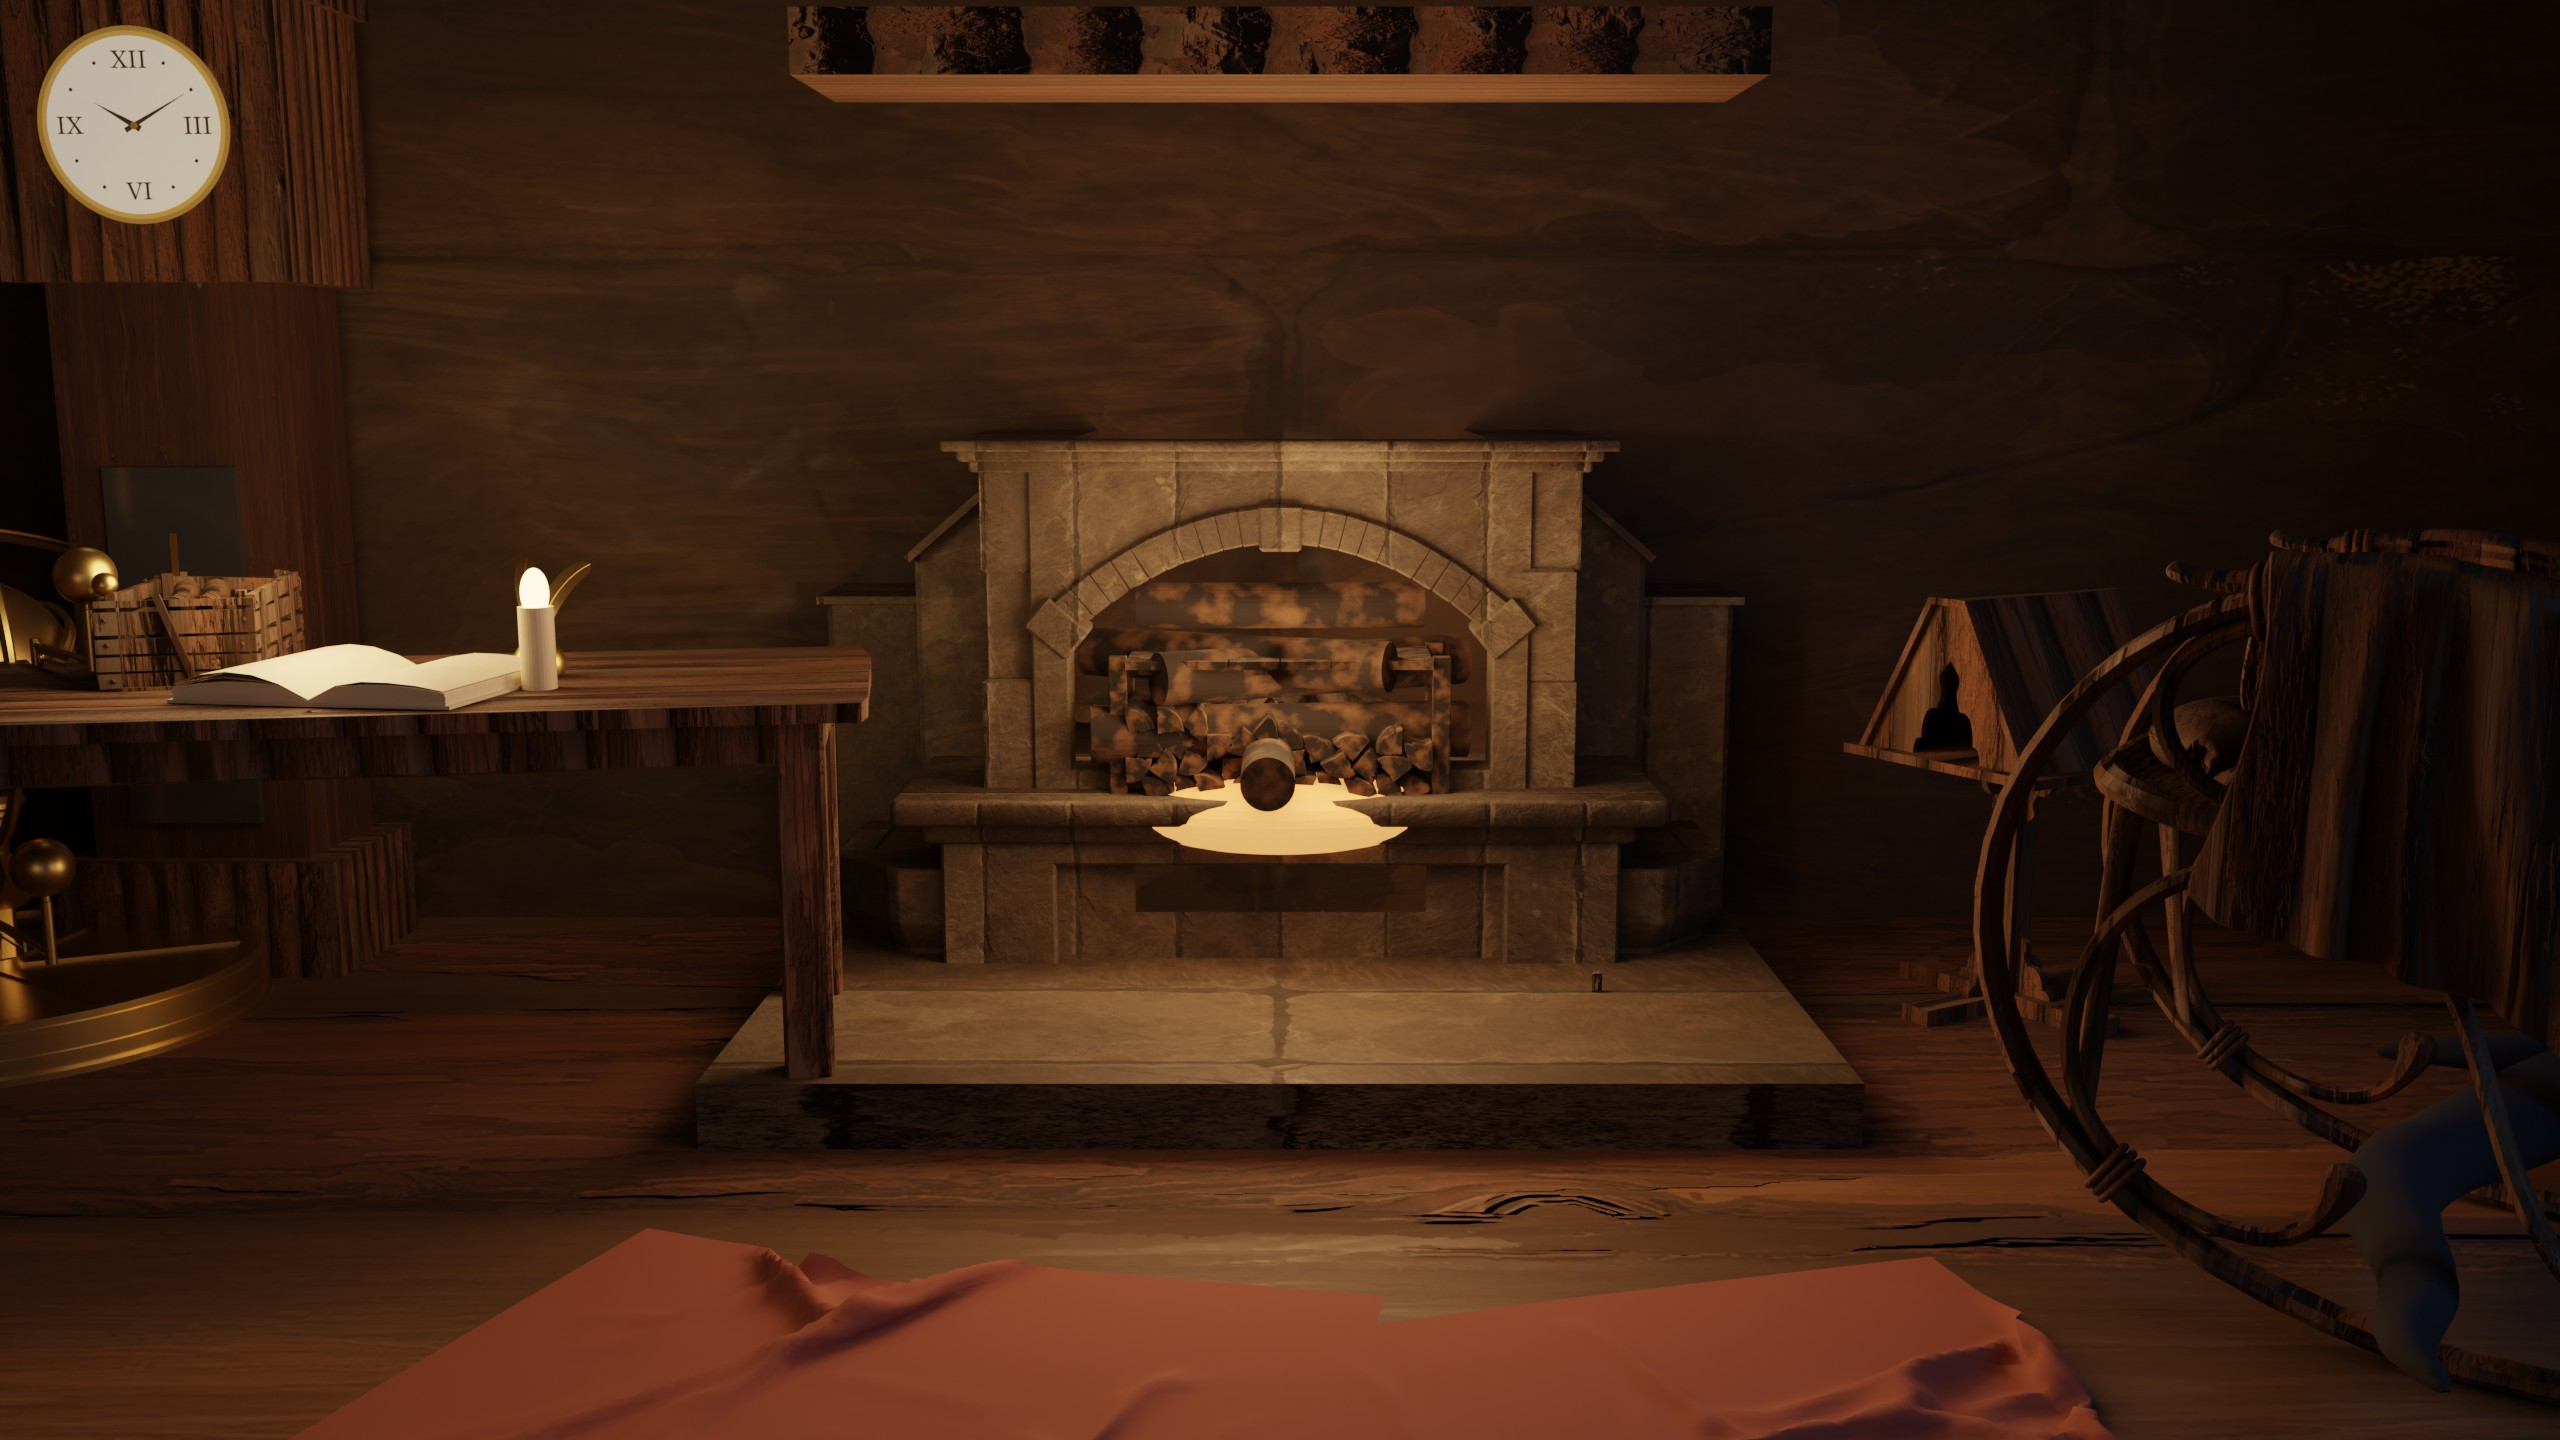
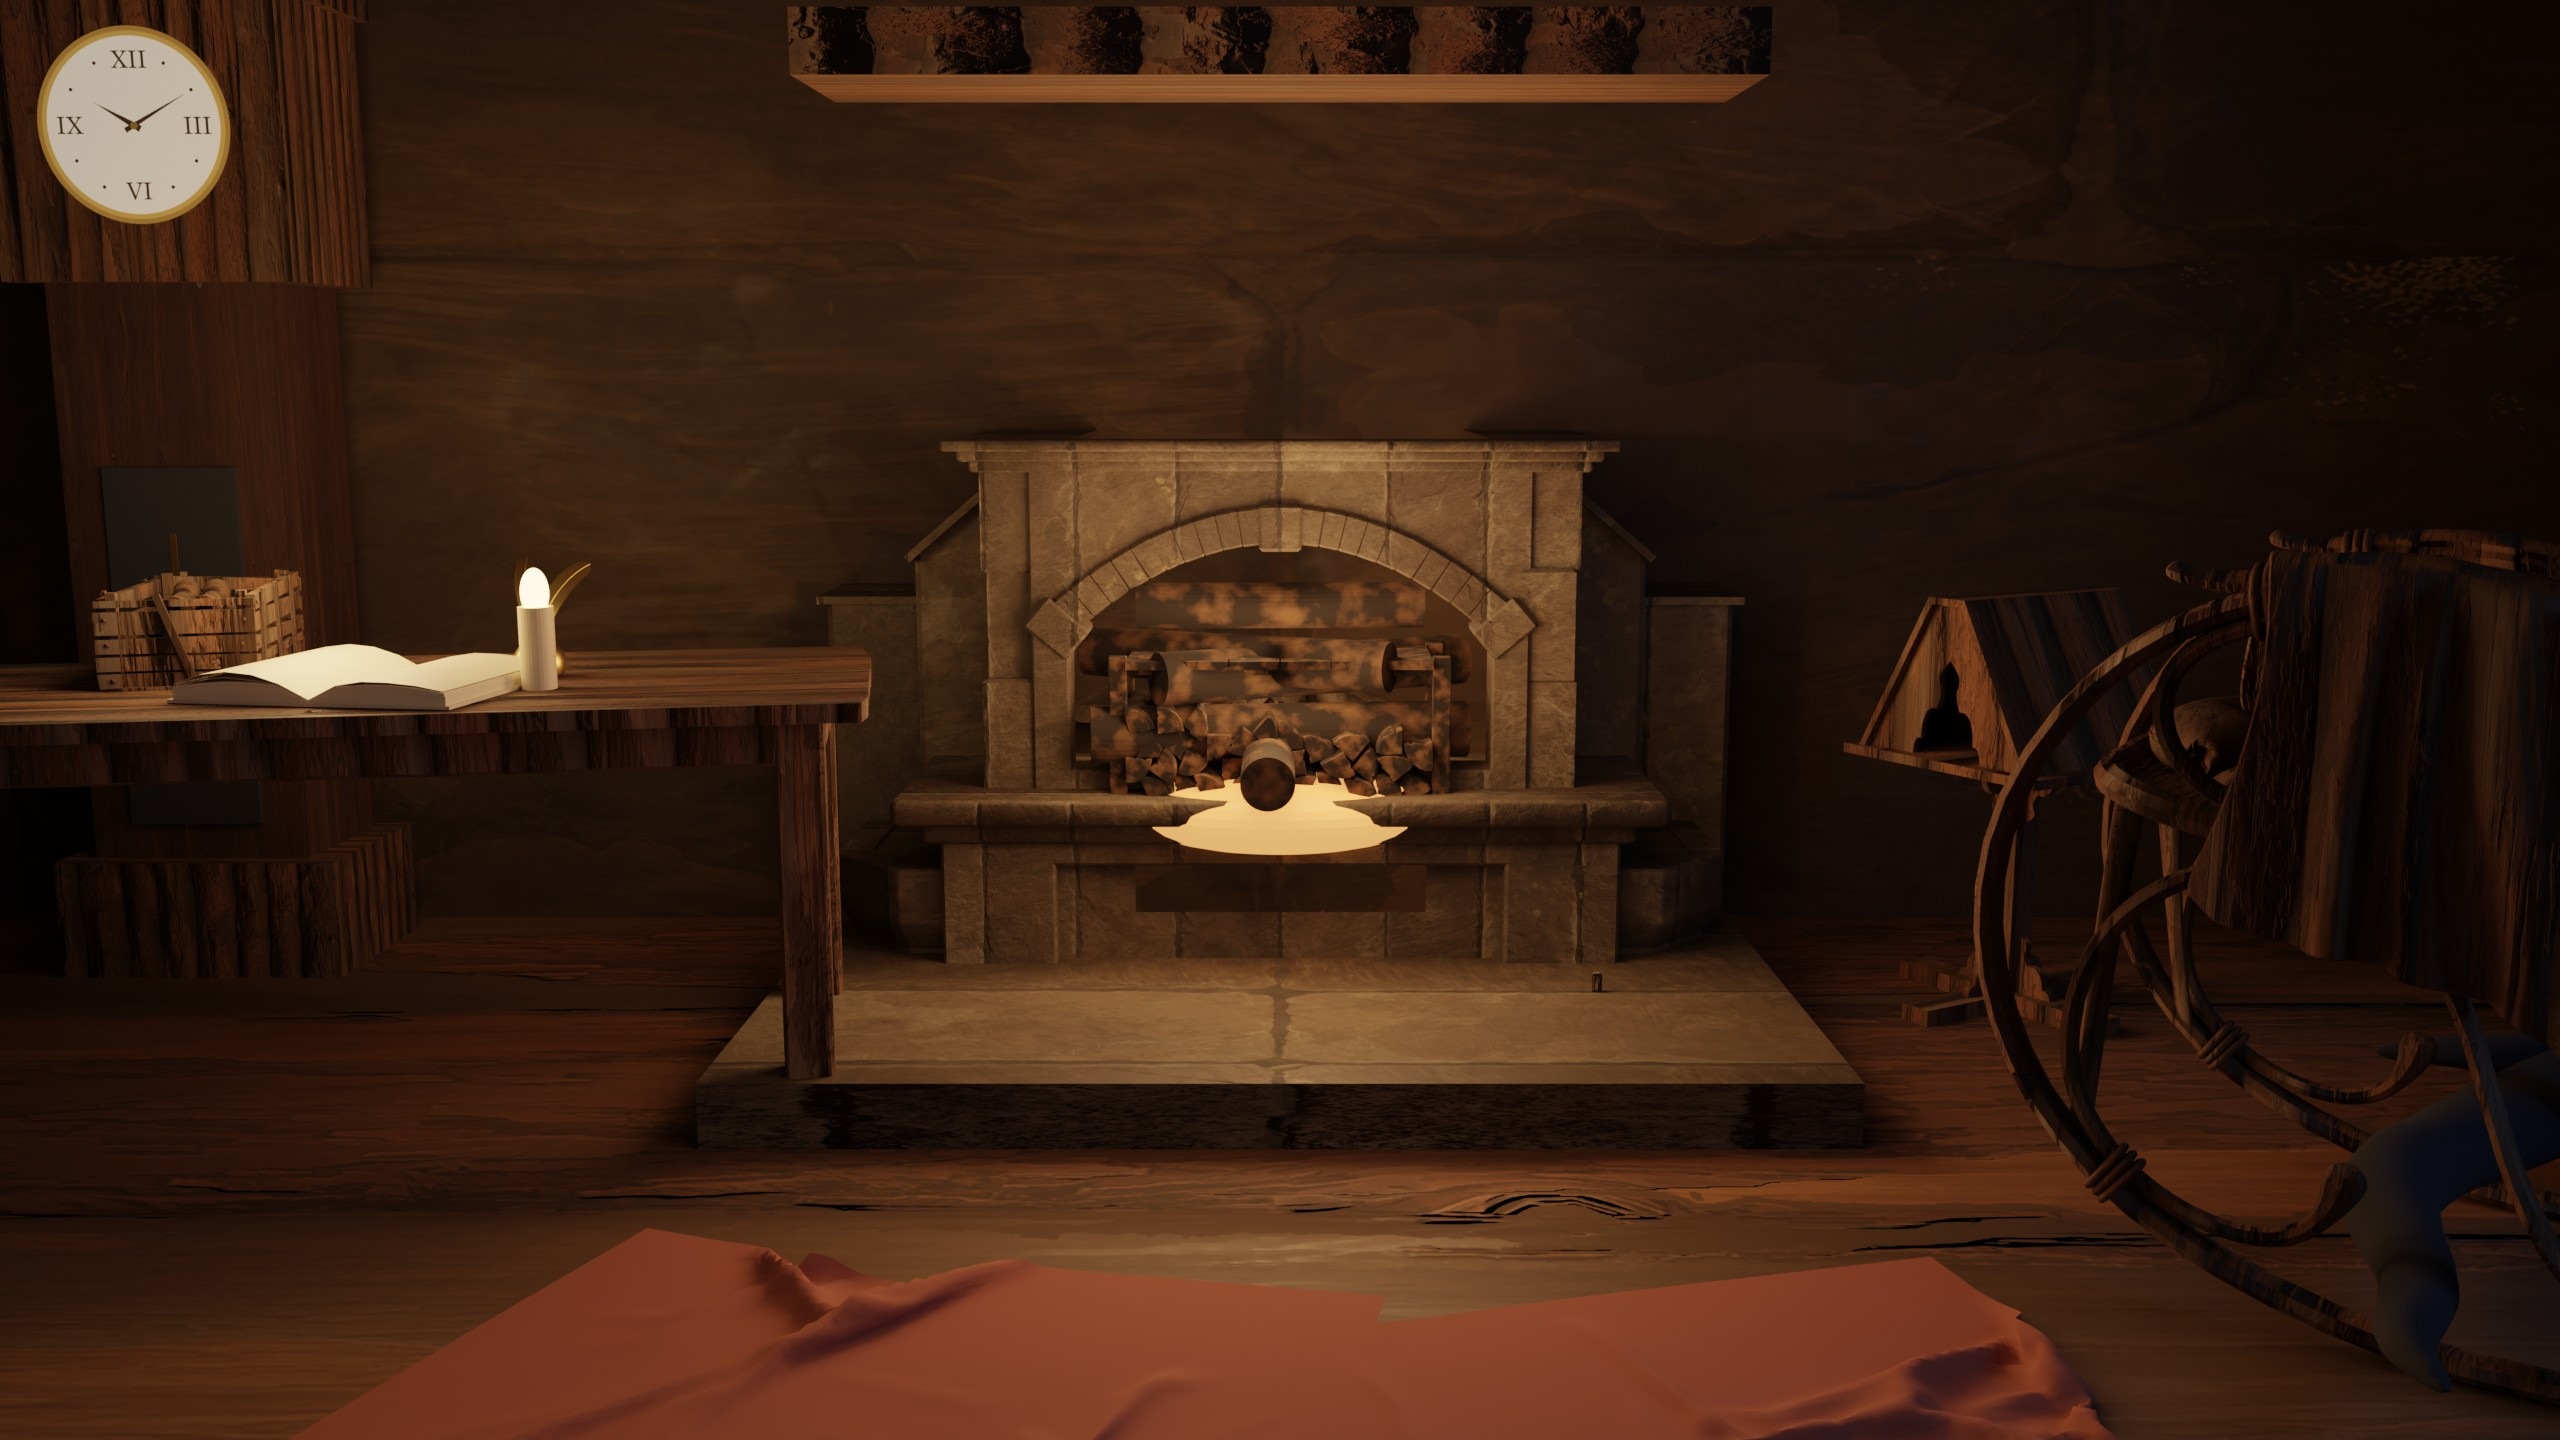
fix(cabin): correct 360 projection (fisheye->equirect), drop armillary, tune marker
- _blender/eci_meditation_360.py: Blender 4.0+ では panorama_type が
  camera.cycles から camera 直下へ移動しており、旧APIが silent fail して
  360 が魚眼で出力されていた(球体に貼ると小屋が歪み・窓がぐにゃり)。
  camera.panorama_type を先に試す形へ修正し、正しい equirect を復旧。
- 机にめり込んでいた armillary globe (EarthGlobe) を撤去。
- assets/cabin360.jpg / cabin-still.jpg を正しい equirect で再レンダ。
  これにより tale/remedy マーカーが再び本棚を指す(既存マーカーは
  正しい equirect 用に調整されていたため)。
- cabin.html: letters マーカーの lat を文箱ノオクに合わせ微調整(-16->-11)。

Changed region(s): [[0.0, 0.5625, 0.0938, 0.75], [0.0, 0.375, 0.0625, 0.4688]]

diff --git a/cabin.html b/cabin.html
@@ -1788,7 +1788,7 @@ const MARKERS = [
   { key:'tale',     lon:46,  lat:-9,  r:4,   jp:'短編小説 · 焚き火は、消えない', en:'a short story' },
   { key:'remedy',   lon:51,  lat:-15, r:4,   jp:'処方箋 · 朝、ふとんから出られない君へ', en:'a prescription' },
   { key:'window',   lon:-63, lat:1,   r:6,   jp:'夜の森をのぞむ',       en:'the night forest' },
-  { key:'letters',  lon:24,  lat:-16, r:5,   jp:'灯火の文箱 · みんなの言葉を読む / 残す', en:'letters by the fire' },
+  { key:'letters',  lon:24,  lat:-11, r:5,   jp:'灯火の文箱 · みんなの言葉を読む / 残す', en:'letters by the fire' },
   { key:'outside',  lon:186, lat:-14, r:6,   jp:'扉から外へ出る',        en:'step out the door' },
 ];
 // out by the lake under the stars

diff --git a/_blender/eci_meditation_360.py b/_blender/eci_meditation_360.py
@@ -174,7 +174,6 @@ KIT = {
     'KB3D_ECI_PropAppleBasket_A_Main':  ('wood',     1.55, -1.05, 15,  0.6),   # small woven basket, right-front
     # ── antique pieces (curated from the Enchanted Interiors kit), to enrich the room ──
     'KB3D_ECI_PropBookShelf_A_Main':    ('wood',    -2.46,  0.85, 90,  0.95),  # tall bookshelf against the left wall
-    'KB3D_ECI_PropEarthGlobe_A_Main':   ('brass',   -2.25,  1.95, 25,  0.42),  # small armillary globe, tucked into the left-back corner
     'KB3D_ECI_PropArmorChest_A_Main':   ('wood',     2.40,  2.05, -120,0.9),   # ornate antique chest, right-back corner
     'KB3D_ECI_PropBookStand_A_Main':    ('wood',     1.30,  2.20, -150,0.9),   # reading lectern near the hearth
     'KB3D_ECI_PropTable_C_Main':        ('wood',    -1.42,  1.62,  10,  0.8),   # 灯火の文箱: writing desk left of the hearth (letters nook)
@@ -431,8 +430,13 @@ still = bpy.data.objects.new('Still', cd); scene.collection.objects.link(still);
 tgt = bpy.data.objects.new('Tgt', None); scene.collection.objects.link(tgt); tgt.location = LOOK
 cc = still.constraints.new('TRACK_TO'); cc.target = tgt; cc.track_axis = 'TRACK_NEGATIVE_Z'; cc.up_axis = 'UP_Y'
 pd = bpy.data.cameras.new('Pano'); pd.type = 'PANO'
-try: pd.cycles.panorama_type = 'EQUIRECTANGULAR'
-except Exception: pass
+# Blender 4.0+ moved panorama_type onto the camera data; older builds keep it on .cycles.
+# (Without this, 5.x silently defaults to FISHEYE and the 360 comes out circular/distorted.)
+try:
+    pd.panorama_type = 'EQUIRECTANGULAR'
+except Exception:
+    try: pd.cycles.panorama_type = 'EQUIRECTANGULAR'
+    except Exception: pass
 pano = bpy.data.objects.new('Pano', pd); scene.collection.objects.link(pano); pano.location = SEAT
 pano.rotation_euler = (math.radians(90), 0, 0)
 
